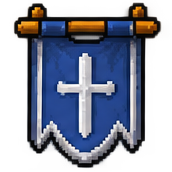
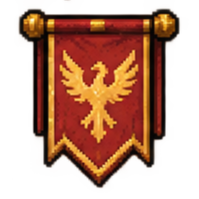
Canonicalize guild set item image paths

diff --git a/games/guildmaster_dungeons/game.js b/games/guildmaster_dungeons/game.js
@@ -1360,14 +1360,15 @@ Object.values(ARCHETYPE_ITEM_SETS).forEach(set=>set.effect=`1 piece: ${set.oneTe
 Object.assign(ITEM_SETS,ARCHETYPE_ITEM_SETS);
 const LEGACY_ITEM_SET_IDS=new Set(['emberwake','ironVow','nightHunt','phoenix']);
 const CANONICAL_SET_PIECES=()=>Object.entries(ITEM_SETS).flatMap(([setId,set])=>Object.entries(set.pieces||{}).map(([slot,name])=>({setId,slot,name})));
+function canonicalSetImagePath(set,slot){const name=set?.pieces?.[slot]||'default',folder=itemFolder(slot),slug=String(name).toLowerCase().replace(/’/g,"'").replace(/[^a-z0-9']+/g,'-').replace(/^-|-$/g,'');return `images/items/${folder}/${slug}.png`}
 function rebuildCanonicalSetItem(item,set){
  const level=hiddenItemLevel(item),rarity=item.rarity||'Common',slot=item.slot,stats=Object.fromEntries(Object.entries(set.stats?.[slot]||{}).map(([key,value])=>[key,archetypeStatValue(key,value,level,rarity)]));
  ITEM_STAT_KEYS.forEach(key=>delete item[key]);delete item.stat;delete item.value;delete item.secondaryStat;delete item.secondaryValue;delete item.tertiaryStat;delete item.tertiaryValue;delete item.weaponCritChance;delete item.allowedClasses;
  item.sourceSlot=slot;item.itemLevel=item.tier=level;item.setVersion=2;item.archetype=set.archetype;item.extraStats=stats;
- if(slot==='Weapon'){const template=set.templates.Weapon,weapon=ITEM_DATA.weapons?.[template]||{};Object.assign(item,{weaponTemplate:template,weaponType:ITEM_DATA.weaponTypeMap?.[template]||template,damageType:weapon.type||'physical',scale:weapon.scale||'str',scale2:weapon.scale2||null,weaponPower:equipmentPrimaryValue((weapon.base||5)+2,level,rarity),image:weapon.image||`images/items/weapons/${itemSlug(item.name)}.png`})}
- else if(slot==='Armor'){const template=set.templates.Armor,profile=ITEM_DATA.armorProfiles?.[template]||{};Object.assign(item,{armorClass:profile.armorClass||'Light',stat:profile.stat||'def',value:equipmentPrimaryValue((profile.base||4)+2,level,rarity),image:`images/items/armor/${itemSlug(item.name)}.png`});delete item.weaponTemplate;delete item.weaponType;delete item.weaponPower;delete item.scale;delete item.scale2;delete item.damageType}
- else{item.image=`images/items/accessories/${itemSlug(item.name)}.png`;delete item.weaponTemplate;delete item.weaponType;delete item.weaponPower;delete item.scale;delete item.scale2;delete item.damageType;delete item.armorClass}
- item.setBalanceVersion=5;return item
+ if(slot==='Weapon'){const template=set.templates.Weapon,weapon=ITEM_DATA.weapons?.[template]||{};Object.assign(item,{weaponTemplate:template,weaponType:ITEM_DATA.weaponTypeMap?.[template]||template,damageType:weapon.type||'physical',scale:weapon.scale||'str',scale2:weapon.scale2||null,weaponPower:equipmentPrimaryValue((weapon.base||5)+2,level,rarity),image:canonicalSetImagePath(set,slot)})}
+ else if(slot==='Armor'){const template=set.templates.Armor,profile=ITEM_DATA.armorProfiles?.[template]||{};Object.assign(item,{armorClass:profile.armorClass||'Light',stat:profile.stat||'def',value:equipmentPrimaryValue((profile.base||4)+2,level,rarity),image:canonicalSetImagePath(set,slot)});delete item.weaponTemplate;delete item.weaponType;delete item.weaponPower;delete item.scale;delete item.scale2;delete item.damageType}
+ else{item.image=canonicalSetImagePath(set,slot);delete item.weaponTemplate;delete item.weaponType;delete item.weaponPower;delete item.scale;delete item.scale2;delete item.damageType;delete item.armorClass}
+ item.setBalanceVersion=5;item.setImageVersion=1;return item
 }
 function normalizeAuthoredSetItem(item){
  if(!item)return item;
@@ -1377,6 +1378,7 @@ function normalizeAuthoredSetItem(item){
  const chosen=match||candidates[itemSetHash({name:item.name||item.id})%candidates.length];if(!chosen)return item;
  item.setId=chosen.setId;item.name=chosen.name;const set=ITEM_SETS[item.setId];
  if(set&&item.setBalanceVersion!==5)rebuildCanonicalSetItem(item,set);
+ if(set&&item.setImageVersion!==1){item.image=canonicalSetImagePath(set,item.slot);item.setImageVersion=1}
  return item
 }
 ensureItemSet=function(item){if(!item)return item;if(item.id==null)item.id=uid();return normalizeAuthoredSetItem(item)};

diff --git a/games/guildmaster_dungeons/index.html b/games/guildmaster_dungeons/index.html
@@ -23,6 +23,6 @@
   <header class="sitebar"><a href="/">MR/ My Random Tools</a><span>Guildmaster universe</span></header>
   <main id="app"></main>
   <div id="toast" aria-live="polite"></div>
-<script src="game.js?build=175"></script>
+<script src="game.js?build=176"></script>
 </body>
 </html>
